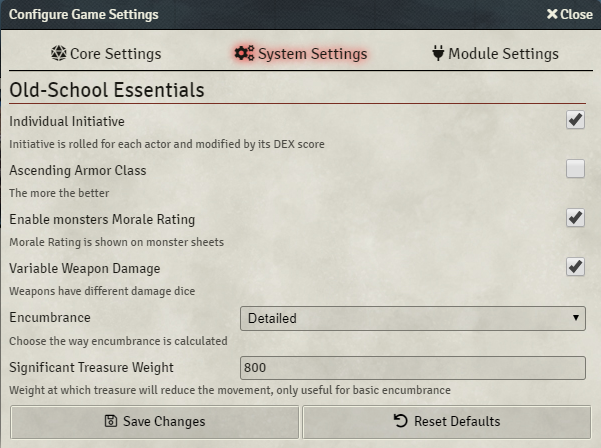
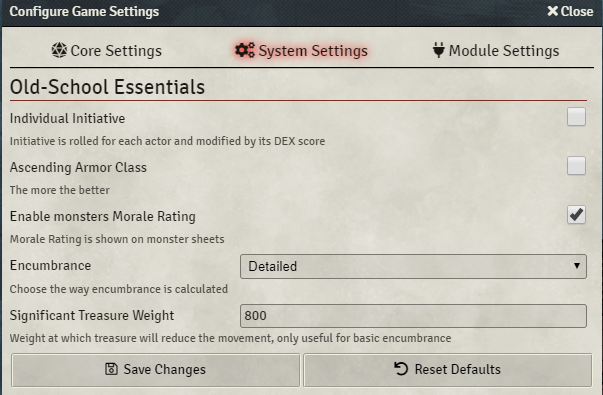
ENH: Chargen

diff --git a/src/module/dialog/character-creation.js b/src/module/dialog/character-creation.js
@@ -1,13 +1,14 @@
-// eslint-disable-next-line no-unused-vars
 import { OseActor } from '../actor/entity.js';
+import { OseDice } from "../dice.js";
 
 export class OseCharacterCreator extends FormApplication {
   static get defaultOptions() {
     const options = super.defaultOptions;
+    options.classes = ["ose", "dialog", "creator"],
     options.id = 'character-creator';
     options.template =
       'systems/ose/templates/actors/dialogs/character-creation.html';
-    options.width = 380;
+    options.width = 235;
     return options;
   }
 
@@ -18,7 +19,7 @@ export class OseCharacterCreator extends FormApplication {
    * @type {String}
    */
   get title() {
-    return `${this.object.name}: ${game.i18n.localize('OSE.dialog.tweaks')}`;
+    return `${this.object.name}: ${game.i18n.localize('OSE.dialog.generator')}`;
   }
 
   /* -------------------------------------------- */
@@ -36,9 +37,66 @@ export class OseCharacterCreator extends FormApplication {
 
   /* -------------------------------------------- */
 
+  doStats(ev) {
+    let list = $(ev.currentTarget).closest('.attribute-list');
+    let values = [];
+    list.find('.score-value').each((i, s) => {
+      if (s.value != 0) {
+        values.push(parseInt(s.value));
+      }
+    })
+
+    let n = values.length;
+    let sum = values.reduce((a,b) => a+b);
+    let mean = parseFloat(sum) / n;
+    let std = Math.sqrt(values.map(x => Math.pow(x-mean,2)).reduce((a,b) => a+b)/n);
+
+    let stats = list.siblings('.roll-stats');
+    stats.find('.sum').text(sum);
+    stats.find('.avg').text(Math.round(10 * sum / n) / 10);
+    stats.find('.std').text(Math.round(100 * std) / 100);
+    if (n >= 6) {
+      $(ev.currentTarget).closest('form').find('button[type="submit"]').removeAttr('disabled');
+    }
+  }
+
+  rollScore(score, options={}) {
+    const label = game.i18n.localize(`OSE.scores.${score}.long`);
+    const rollParts = ["3d6"];
+    const data = {
+      ...this.object.data,
+      ...{
+        rollData: {
+          type: "result"
+        },
+      },
+    };
+    // Roll and return
+    return OseDice.Roll({
+      event: options.event,
+      parts: rollParts,
+      data: data,
+      skipDialog: true,
+      speaker: ChatMessage.getSpeaker({ actor: this }),
+      flavor: game.i18n.format('OSE.dialog.generateScore', {score: label}),
+      title: game.i18n.format('OSE.dialog.generateScore', {score: label}),
+    });
+  }
+
   /** @override */
   activateListeners(html) {
     super.activateListeners(html);
+    html.find('a.score-roll').click((ev) => {
+      let el = ev.currentTarget.parentElement.parentElement;
+      let score = el.dataset.score;
+      this.rollScore(score, {event: ev}).then(r => {
+        $(el).find('input').val(r.total).trigger('change');
+      });
+    });
+
+    html.find('input.score-value').change(ev => {
+      this.doStats(ev);
+    })
   }
 
   /**

diff --git a/src/scss/apps.scss b/src/scss/apps.scss
@@ -5,6 +5,33 @@
   }
 }
 
+.ose.dialog.creator {
+  .attribute-list {
+    .form-fields {
+      flex: 0 0 50px;
+      input {
+        text-align: center;
+        font-weight: bold;
+      }
+    }
+  }
+  .roll-stats {
+    flex: 0 0 65px;
+    padding: 5px;
+    margin-left: 4px;
+    border-left: 1px solid $colorTan;
+    .form-group {
+      .form-fields {
+        span {
+          text-align: center;
+          line-height: 24px;
+          flex: 0;
+        }
+      }
+    }
+  }
+}
+
 .ose.dialog.party-sheet {
   min-width: 250px;
   min-height: 250px;
@@ -45,7 +72,7 @@
       margin-bottom: 2px;
       font-size: 12px;
       text-align: center;
-      .fields .field-row{
+      .fields .field-row {
         &:nth-child(odd) {
           background-color: rgba(0, 0, 0, 0.1);
         }
@@ -95,7 +122,7 @@
 #sidebar #actors .directory-header .header-search {
   .ose-party-sheet {
     width: 32px;
-    text-align: center; 
+    text-align: center;
     line-height: 20px;
   }
   input {
@@ -120,7 +147,7 @@
       flex: 0 0 30px;
       font-size: 26px;
       line-height: 25px;
-      color:white;
+      color: white;
       margin: 0 2px 5px 8px;
       border-radius: 8px;
       background: url("/systems/ose/assets/chest.png") no-repeat center;
@@ -128,7 +155,8 @@
       padding: 5px 8px;
       cursor: pointer;
       filter: grayscale(1) opacity(0.5);
-      &.active,&:hover {
+      &.active,
+      &:hover {
         filter: none;
       }
     }
@@ -172,12 +200,15 @@
     box-shadow: 0 0 2px #fff inset;
     .chat-title {
       margin: 4px 0;
+      height: 30px;
+      overflow: hidden;
       h2 {
         border: none;
         line-height: 34px;
         margin: 0;
         text-indent: 10px;
         font-size: 16px;
+        word-break: break-all;
       }
     }
     .chat-img {

diff --git a/src/templates/actors/dialogs/character-creation.html b/src/templates/actors/dialogs/character-creation.html
@@ -1,7 +1,39 @@
 <form autocomplete="off" onsubmit="event.preventDefault();">
-    <ol class="attribute-list">
-        {{#each config.scores as |score id| }}
-        <li data-score="{{id}}">{{score}}</li>
-        {{/each}}
-    </ol>
+    <div class="flexrow">
+        <div class="attribute-list">
+            {{#each config.scores as |score id| }}
+            <div data-score="{{id}}" class="form-group">
+                <label><a class="score-roll"><i class="fas fa-dice"></i></a> {{score}}</label>
+                <div class="form-fields">
+                    <input class="score-value" name="data.scores.{{id}}.value" type="text" value="0" data-dtype="Number"/>
+                </div>
+            </div>
+            {{/each}}
+        </div>
+        <div class="roll-stats">
+            <div class="form-group">
+                <label>Sum</label>
+                <div class="form-fields">
+                    <span class="sum">0</span>
+                </div>
+            </div>
+            <div class="form-group">
+                <label>Avg</label>
+                <div class="form-fields">
+                    <span class="avg">0</span>
+                </div>
+            </div>
+            <div class="form-group">
+                <label>σ</label>
+                <div class="form-fields">
+                    <span class="std">0</span>
+                </div>
+            </div>
+        </div>
+    </div>
+    <footer class="sheet-footer">
+      <button type="submit" disabled>
+        <i class="fas fa-save"></i>{{localize "Save Changes"}}
+      </button>
+    </footer>
 </form>

diff --git a/.public/index.html b/.public/index.html
@@ -110,11 +110,6 @@
               wether your monster has a survival instinct or will fight till the
               end.
             </li>
-            <li><strong>Variable weapon damage</strong>:By default, even if the
-              damage field is shown in the weapons sheets, the rolled damage
-              will always be a d6, except for monsters. With this enabled, the
-              damage displayed will be effectively used for characters.
-            </li>
             <li><strong>Encumbrance</strong>:The weight a character is carrying
               is a significant part of the players treasure hunting adventures.
               You have three options here.
@@ -493,7 +488,7 @@
               <img src="./images/treasure-toggle.png" />
             </p>
             <p>
-              You can toggle between the default rollable tables and the treasure table.
+              You can toggle between the default rollable tables and the treasure table with the Chest icon right next to the table name.
               The default tables are selecting an entry by rolling a dice and returning the matching result. Treasure tables however, have a different behavior. Each entry is rolled with 1d100 and the value is compared to the 'chance field'. So it can return multiple items.
             </p>
             <p>

diff --git a/src/module/actor/entity.js b/src/module/actor/entity.js
@@ -69,7 +69,7 @@ export class OseActor extends Actor {
   }
 
   generator() {
-    
+
   }
 
   generateSave(hd) {
@@ -274,6 +274,9 @@ export class OseActor extends Actor {
   rollHitDice(options = {}) {
     const label = game.i18n.localize(`OSE.roll.hd`);
     const rollParts = [this.data.data.hp.hd];
+    if (this.data.type == 'character') {
+      rollParts.push(this.data.data.scores.con.mod);
+    }
 
     const data = {
       ...this.data,
@@ -373,10 +376,7 @@ export class OseActor extends Actor {
     };
 
     let dmgParts = [];
-    if (
-      (!attData.dmg || !game.settings.get("ose", "variableWeaponDamage")) &&
-      this.type == "character"
-    ) {
+    if (!attData.dmg) {
       dmgParts.push("1d6");
     } else {
       dmgParts.push(attData.dmg);
@@ -404,11 +404,7 @@ export class OseActor extends Actor {
     const rollParts = ["1d20"];
     const dmgParts = [];
     let label = game.i18n.format("OSE.roll.attacks", { name: this.data.name });
-    if (
-      !attData.dmg ||
-      (!game.settings.get("ose", "variableWeaponDamage") &&
-        this.data.type == "character")
-    ) {
+    if (!attData.dmg) {
       dmgParts.push("1d6");
     } else {
       label = game.i18n.format("OSE.roll.attacksWith", { name: attData.label });

diff --git a/src/module/dice.js b/src/module/dice.js
@@ -103,12 +103,12 @@ export class OseDice {
               )
               .then((displayed) => {
                 ChatMessage.create(chatData);
-                resolve();
+                resolve(roll);
               });
           } else {
             chatData.sound = CONFIG.sounds.dice;
             ChatMessage.create(chatData);
-            resolve();
+            resolve(roll);
           }
         });
       });
@@ -215,17 +215,17 @@ export class OseDice {
                       )
                       .then(() => {
                         ChatMessage.create(chatData);
-                        resolve();
+                        resolve(roll);
                       });
                   } else {
                     ChatMessage.create(chatData);
-                    resolve();
+                    resolve(roll);
                   }
                 });
             } else {
               chatData.sound = CONFIG.sounds.dice;
               ChatMessage.create(chatData);
-              resolve();
+              resolve(roll);
             }
           });
         });

diff --git a/src/module/settings.js b/src/module/settings.js
@@ -28,15 +28,6 @@ export const registerSettings = function () {
     config: true,
   });
 
-  game.settings.register("ose", "variableWeaponDamage", {
-    name: game.i18n.localize("OSE.Setting.VariableWeaponDamage"),
-    hint: game.i18n.localize("OSE.Setting.VariableWeaponDamageHint"),
-    default: false,
-    scope: "world",
-    type: Boolean,
-    config: true,
-  });
-
   game.settings.register("ose", "encumbranceOption", {
     name: game.i18n.localize("OSE.Setting.Encumbrance"),
     hint: game.i18n.localize("OSE.Setting.EncumbranceHint"),

diff --git a/src/module/actor/character-sheet.js b/src/module/actor/character-sheet.js
@@ -57,11 +57,6 @@ export class OseActorSheetCharacter extends OseActorSheet {
   getData() {
     const data = super.getData();
 
-    // Settings
-    data.config.variableWeaponDamage = game.settings.get(
-      "ose",
-      "variableWeaponDamage"
-    );
     data.config.ascendingAC = game.settings.get("ose", "ascendingAC");
     data.config.individualInit = game.settings.get("ose", "individualInit");
     data.config.encumbrance = game.settings.get("ose", "encumbranceOption");
